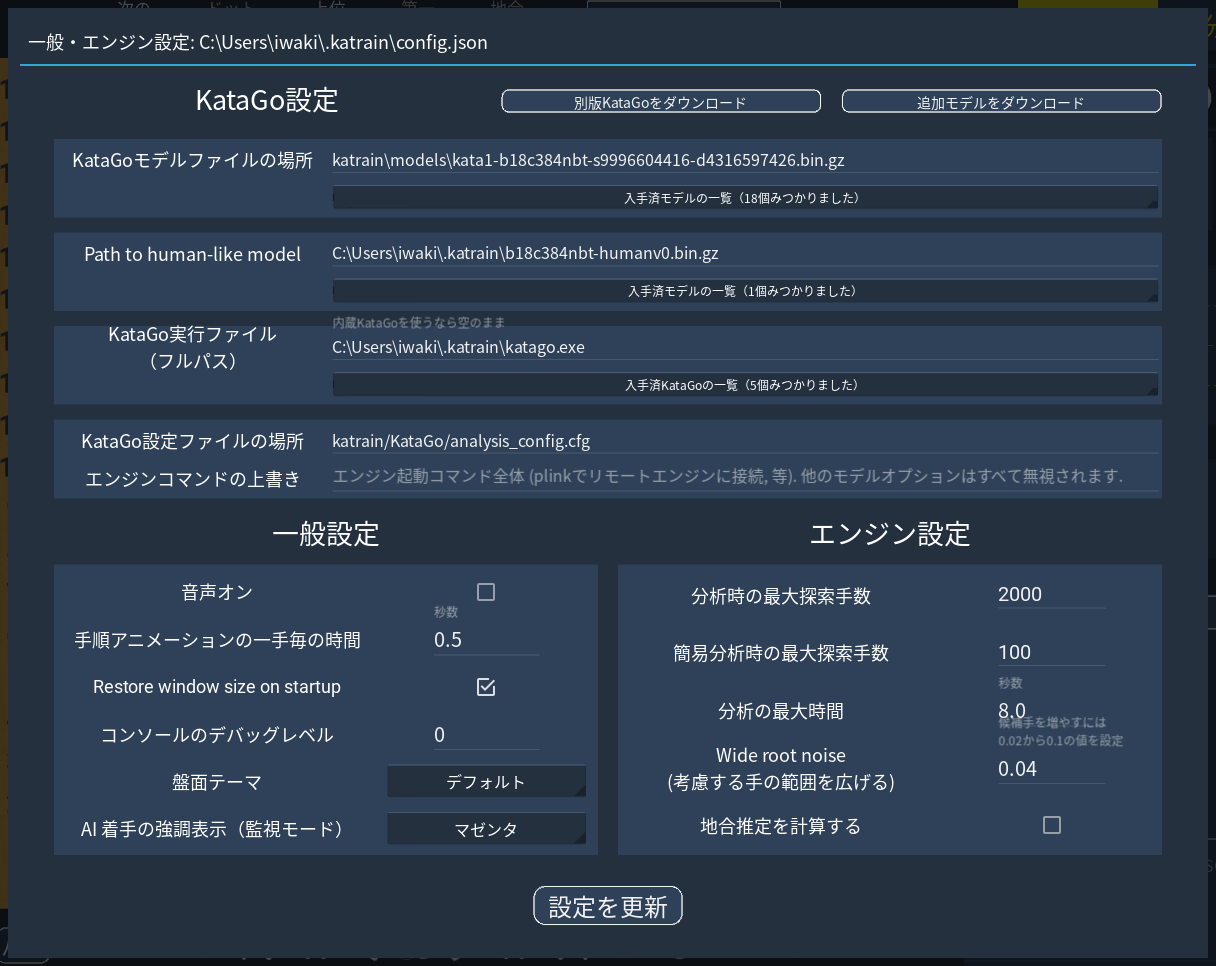
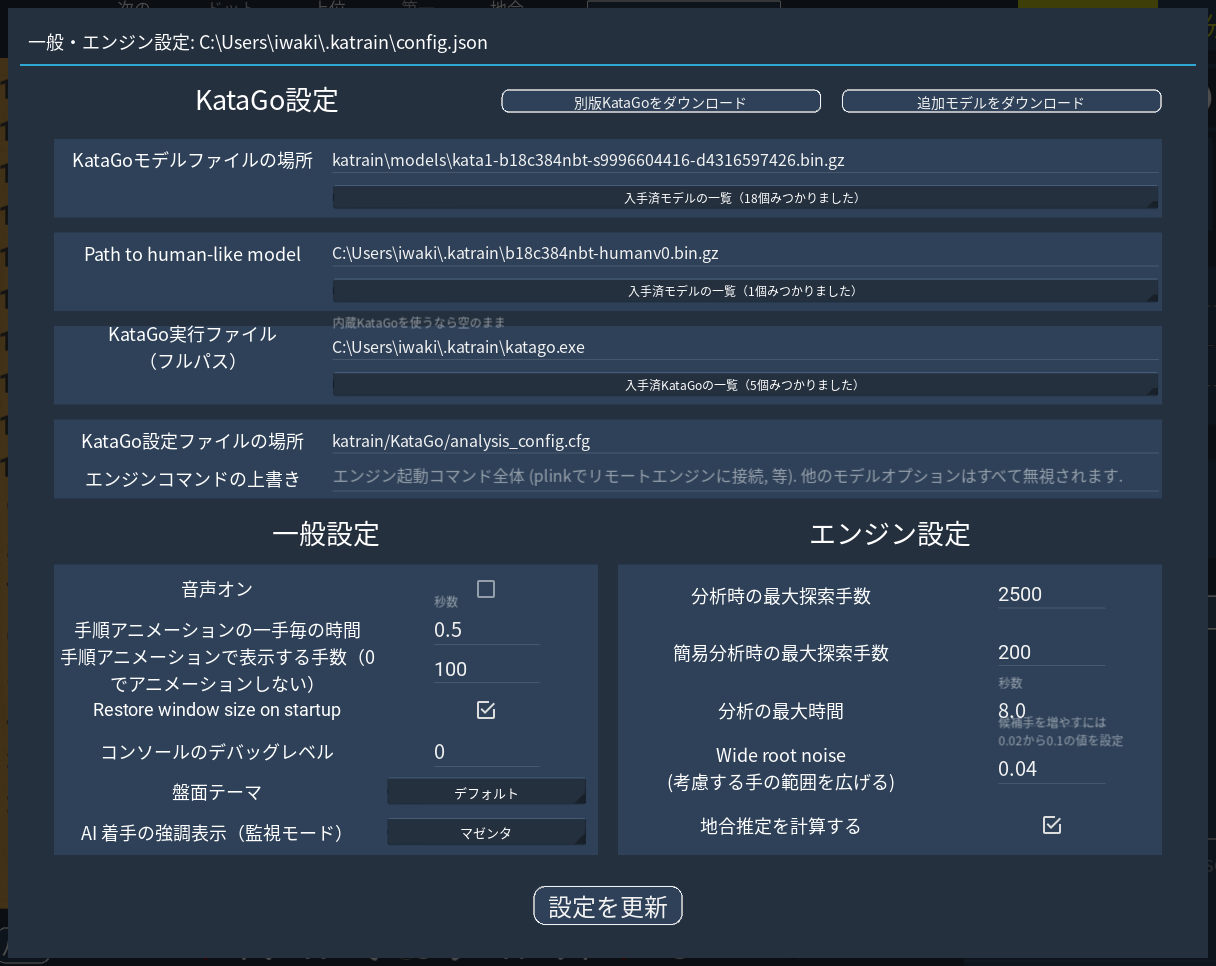
feat(settings): 上流 v1.20.0 の設定2件を追加＝盤上の手数表示の初期状態と手順アニメーションの手数上限
- trainer/show_move_numbers: 指導・分析設定（F6）のチェックボックス。m キーのトグルの起動時の初期値になる
- general/anim_pv_moves: 一般設定。ホバー時の手順アニメーションで表示する手数（既定 100、0 で無効）
- package config.json とローカル設定の両方にキーを追加、popups.kv（指導設定のグリッド rows 8→9）、
  i18n（en / jp の .po と .mo）、マニュアル（本文 04_play / 10_settings とスクショ）を更新

diff --git a/docs/manual/src/10_settings.html b/docs/manual/src/10_settings.html
@@ -25,10 +25,10 @@
   <thead><tr><th>セクション</th><th>主なキー</th><th>設定画面</th></tr></thead>
   <tbody>
     <tr><th><code>engine</code></th><td>katago / model / humanlike_model / config / max_visits / fast_visits / max_time / wide_root_noise / _enable_ownership</td><td>一般・エンジン設定（<kbd>F8</kbd>）</td></tr>
-    <tr><th><code>general</code></th><td>lang / board_theme / debug_level / anim_pv_time / sgf_load / sgf_save / load_fast_analysis / load_sgf_rewind</td><td>同上（保存先フォルダは直接編集）</td></tr>
+    <tr><th><code>general</code></th><td>lang / board_theme / debug_level / anim_pv_time / anim_pv_moves / sgf_load / sgf_save / load_fast_analysis / load_sgf_rewind</td><td>同上（保存先フォルダは直接編集）</td></tr>
     <tr><th><code>game</code></th><td>size / komi / handicap / rules / clear_cache / setup_move / setup_advantage</td><td>新規対局（<kbd>Ctrl</kbd>+<kbd>N</kbd>）</td></tr>
     <tr><th><code>timer</code></th><td>main_time / byo_length / byo_periods / minimal_use / sound</td><td>時間設定（<kbd>F5</kbd>）</td></tr>
-    <tr><th><code>trainer</code></th><td>eval_thresholds / num_undo_prompts / show_dots / save_feedback / theme / top_moves_show / low_visits / eval_on_show_last / eval_show_ai / save_analysis 等</td><td>指導・分析設定（<kbd>F6</kbd>）</td></tr>
+    <tr><th><code>trainer</code></th><td>eval_thresholds / num_undo_prompts / show_dots / save_feedback / theme / top_moves_show / low_visits / eval_on_show_last / show_move_numbers / eval_show_ai / save_analysis 等</td><td>指導・分析設定（<kbd>F6</kbd>）</td></tr>
     <tr><th><code>ai</code></th><td><code>ai:&lt;戦略&gt;</code> ごとの設定値（→ <a href="#ai">06</a>）</td><td>AI設定（<kbd>F7</kbd>）</td></tr>
     <tr><th><code>tsumego_capture</code></th><td>ホットキー・ウィンドウ名・枠・ソルバ・白番監視（→ <a href="#tsumego-settings">07</a>）</td><td>なし（直接編集）</td></tr>
     <tr><th><code>board_watch</code></th><td>ホットキー・ポーリング・先読み・強調表示の色（→ <a href="#watch-settings">08</a>）</td><td>色のみ一般設定に</td></tr>

diff --git a/docs/manual/src/04_play.html b/docs/manual/src/04_play.html
@@ -88,7 +88,7 @@
     <tr><th>AI に打たせる</th><td><kbd>Enter</kbd></td><td>今の手番が人間でも、選択中の戦略で AI に 1 手打たせます。</td></tr>
     <tr><th>手を進める</th><td><kbd>→</kbd> <kbd>x</kbd></td><td>待ったで戻した手を進め直す。</td></tr>
     <tr><th>座標表示</th><td><kbd>k</kbd></td><td>盤の座標（A〜T・1〜19）の表示切替。</td></tr>
-    <tr><th>手数表示</th><td><kbd>m</kbd></td><td>石に手数を表示。</td></tr>
+    <tr><th>手数表示</th><td><kbd>m</kbd></td><td>石に手数を表示。起動時の初期状態は指導・分析設定（<kbd>F6</kbd>）の「盤上に手数を表示する」で決まります。</td></tr>
   </tbody>
 </table>
 </div>

diff --git a/katrain/gui/badukpan.py b/katrain/gui/badukpan.py
@@ -1148,6 +1148,8 @@ class BadukPanWidget(Widget):
             draw_text(pos=board_coords, text=str(i + 1), font_size=self.grid_size * sizefac / 1.45, font_name="Roboto")
 
     def set_animating_pv(self, pv, node):
+        if not self.katrain.config("general/anim_pv_moves", 100):
+            pv = None  # animating sequences on hover is switched off
         self.animating_pv_index = None
         if pv is None:
             self.animating_pv = None
@@ -1165,7 +1167,9 @@ class BadukPanWidget(Widget):
             if self.animating_pv:
                 pv, node, start_time, _ = self.animating_pv
                 delay = self.katrain.config("general/anim_pv_time", 0.5)
-                return min(len(pv), (time.time() - start_time) / max(delay, 0.1))
+                max_moves = self.katrain.config("general/anim_pv_moves", 100)
+                # draw_pv treats this as an inclusive index, so subtract one to show max_moves moves
+                return min(len(pv), max_moves - 1, (time.time() - start_time) / max(delay, 0.1))
             else:
                 return 0
 

diff --git a/katrain/gui/popups.py b/katrain/gui/popups.py
@@ -388,6 +388,8 @@ class ConfigTeacherPopup(QuickConfigGui):
 
     def update_config(self, save_to_file=True, close_popup=True):
         super().update_config(save_to_file=save_to_file, close_popup=close_popup)
+        # The keyboard shortcut can change this without changing the config.
+        self.katrain.show_move_num = bool(self.katrain.config("trainer/show_move_numbers", False))
         self.build_and_set_properties()
 
 

diff --git a/katrain/__main__.py b/katrain/__main__.py
@@ -153,7 +153,7 @@ class KaTrainGui(Screen, KaTrainBase):
         self.contribute_popup = None
 
         self.pondering = False
-        self.show_move_num = False
+        self.show_move_num = bool(self.config("trainer/show_move_numbers", False))
 
         self.animate_contributing = False
         self.message_queue = Queue()
